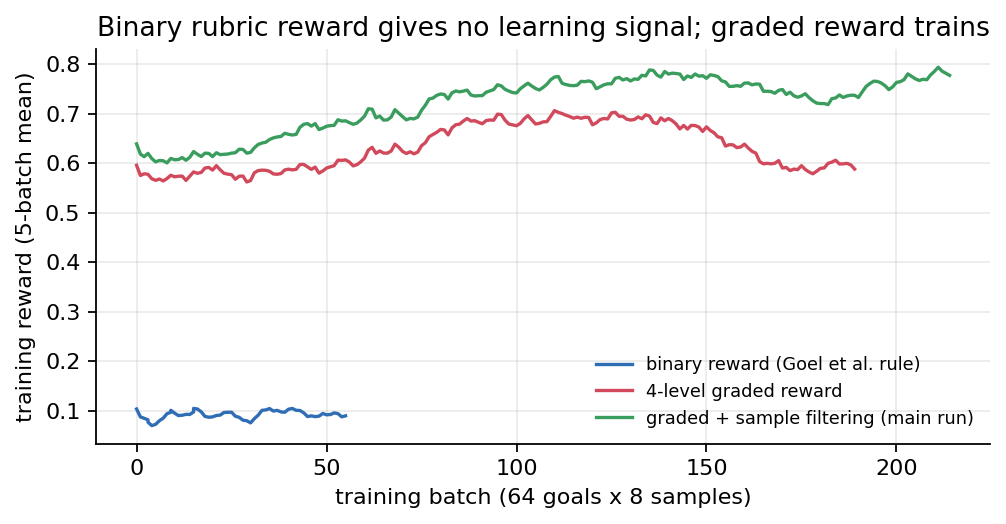
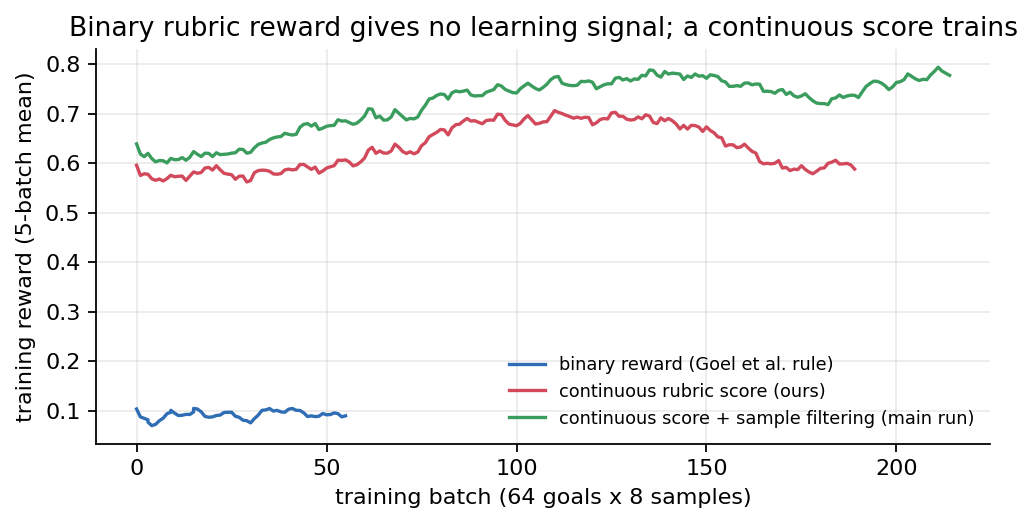
grpo: add evidence that the policy learned format and patterns, not depth
The CV finding is that the rubric reward was easy to hack and too coarse, so
the policy mainly learned format and pattern preferences. Back it with data:

- data/rubric_audit.csv: blind Claude Opus depth audit (/20) of 13 plans from
  the trained checkpoint's held-out eval, numeric fields only (source: the
  archived d1_rubric_validation audit). Opus 6-11/20 across all plans;
  within one goal r=0.58 (n=8), across goals r=-0.17; the top-rubric plan
  (0.949) scores 7/20.
- length/format trend from batch summaries: format penalty 0.048 -> 0.002,
  length 406 -> 579 words toward the 600-word bonus centre. The eval gain
  holds in all 5 length bins, so it is not a length artefact.
- New figures length_format.png and rubric_vs_opus.png; 44 number checks.
- README: 'continuous rubric score' wording, reproduction framed against the
  paper's 12-22% (different evaluator), data card merged in.

diff --git a/grpo/analysis/check_numbers.py b/grpo/analysis/check_numbers.py
@@ -31,6 +31,7 @@ c.check("eval: base model (all 5120 samples)", base, 0.5601)
 c.check("eval: base model valid share %", 100 * n_valid / n_gen, 76.2, 0.05)
 trained, n_gen, n_valid = eval_mean_all(E / "grpo_main.eval_b214_summary.csv")
 c.check("eval: GRPO b214 (all 5120 samples)", trained, 0.6926)
+c.check("eval: relative gain over base %", 100 * (trained / base - 1), 23.7, 0.05)
 c.check("eval: GRPO b214 valid share %", 100 * n_valid / n_gen, 100.0, 0.05)
 for name, tag, val in [("arxiv", "grpo_arxiv.eval_b101", 0.6889), ("pubmed", "grpo_pubmed.eval_b99", 0.8263)]:
     c.check(f"eval: GRPO {name} split (trained)", eval_mean_all(E / f"{tag}_summary.csv")[0], val)
@@ -47,4 +48,40 @@ rc = [spearmanr(d.grader_rubric_score, d.self_eval_score).correlation for _, d i
 c.check("self-eval vs grader rank corr (mean over goals)", float(np.nanmean(rc)), 0.0634)
 share = (0.8494 - 0.6811) / (0.8665 - 0.6811)
 c.check("share of mean->reference gap below oracle BoN-8 %", 100 * share, 90.8, 0.05)
+
+# --- what else training changed: length shaping and output format -------------------------------
+s = pd.read_csv(D / "train_metrics/grpo_main.batch_summary.csv")
+c.check("main: mean plan length, first 10 batches (words)", s.length_mean.head(10).mean(), 405.6, 0.05)
+c.check("main: mean plan length, last 10 batches (words)", s.length_mean.tail(10).mean(), 578.8, 0.05)
+c.check("main: peak of 5-batch mean length (words)", s.length_mean.rolling(5, min_periods=1).mean().max(), 740, 5)
+c.check("main: mean format penalty, first 10 batches", s.format_rate.head(10).mean(), 0.0479)
+c.check("main: mean format penalty, last 10 batches", s.format_rate.tail(10).mean(), 0.0024)
+for tag, val in [("grpo_main.base_m1", 0.5666), ("grpo_main.eval_b214", 0.6926)]:
+    e = pd.read_parquet(E / f"{tag}.parquet")
+    c.check(f"eval: {tag} valid-only mean", e.rubric_score.mean(), val)
+eb, et = pd.read_parquet(E / "grpo_main.base_m1.parquet"), pd.read_parquet(E / "grpo_main.eval_b214.parquet")
+bins = [0, 400, 500, 600, 700, 10_000]
+gb = eb.groupby(pd.cut(eb.word_count, bins), observed=True).rubric_score.agg(["mean", "size"])
+gt = et.groupby(pd.cut(et.word_count, bins), observed=True).rubric_score.agg(["mean", "size"])
+# the eval gain holds inside every length bin, so it is not explained by the length change
+j = gb.join(gt, lsuffix="_b", rsuffix="_t")
+c.check("eval: length bins with a gain (of 5)", float((j.mean_t > j.mean_b).sum()), 5, 0)
+c.check("eval: smallest within-bin gain (trained - base)", float((j.mean_t - j.mean_b).min()), 0.084, 5e-4)
+
+# --- rubric score vs independent Opus depth audit -----------------------------------------------
+a = pd.read_csv(D / "rubric_audit.csv")
+sg, mg = a[a.audit_set == "same_goal"], a[a.audit_set == "mixed_goals"]
+c.check("audit: same goal, n", float(len(sg)), 8, 0)
+c.check("audit: same goal, Pearson(rubric, Opus)", sg.rubric_score.corr(sg.opus_total), 0.577)
+c.check("audit: same goal, Spearman(rubric, Opus)", spearmanr(sg.rubric_score, sg.opus_total).correlation, 0.479)
+c.check("audit: same goal, rubric min", sg.rubric_score.min(), 0.04)
+c.check("audit: same goal, rubric max", sg.rubric_score.max(), 0.98, 0.005)
+c.check("audit: same goal, Opus min", sg.opus_total.min(), 7, 0)
+c.check("audit: same goal, Opus max", sg.opus_total.max(), 11, 0)
+c.check("audit: mixed goals, Pearson(rubric, Opus)", mg.rubric_score.corr(mg.opus_total), -0.167)
+top = mg.loc[mg.rubric_score.idxmax()]
+c.check("audit: mixed goals, top rubric score", top.rubric_score, 0.9486)
+c.check("audit: mixed goals, Opus score of that plan", top.opus_total, 7, 0)
+c.check("audit: Opus min over all 13 plans", a.opus_total.min(), 6, 0)
+c.check("audit: Opus max over all 13 plans", a.opus_total.max(), 11, 0)
 c.report()

diff --git a/grpo/analysis/make_figures.py b/grpo/analysis/make_figures.py
@@ -13,12 +13,12 @@ style()
 # 1. training reward: binary vs graded
 fig, ax = plt.subplots(figsize=(6.4, 3.4))
 for name, label in [("binary_reward", "binary reward (Goel et al. rule)"),
-                    ("graded_reward", "4-level graded reward"),
-                    ("grpo_main", "graded + sample filtering (main run)")]:
+                    ("graded_reward", "continuous rubric score (ours)"),
+                    ("grpo_main", "continuous score + sample filtering (main run)")]:
     m = pd.read_csv(D / f"train_metrics/{name}.csv")
     ax.plot(m["progress/batch"], m["reward/total"].rolling(5, min_periods=1).mean(), label=label)
 ax.set(xlabel="training batch (64 goals x 8 samples)", ylabel="training reward (5-batch mean)",
-       title="Binary rubric reward gives no learning signal; graded reward trains")
+       title="Binary rubric reward gives no learning signal; a continuous score trains")
 ax.legend(frameon=False, fontsize=8)
 save(fig, F / "training_curves.png")
 
@@ -45,3 +45,27 @@ ax.axhline(rows[3][1], color="#6c757d", ls=":", label="reference plans")
 ax.set(xlabel="N samples per goal", ylabel="rubric score", title="The policy writes good plans but cannot pick them")
 ax.legend(frameon=False, fontsize=8)
 save(fig, F / "selection_gap.png")
+
+# 4. what training changed besides the rubric score: length moves to the shaped target, format errors vanish
+m = pd.read_csv(D / "train_metrics/grpo_main.batch_summary.csv")
+fig, ax = plt.subplots(figsize=(6.4, 3.2))
+ax.plot(m.batch_idx, m.length_mean.rolling(5, min_periods=1).mean(), label="mean plan length (words)")
+ax.axhline(600, color="#6c757d", ls=":", label="centre of the length bonus (600 words)")
+ax.set(xlabel="training batch", ylabel="words", title="The policy learns the length shaping and the output format")
+ax2 = ax.twinx()
+ax2.plot(m.batch_idx, m.format_rate.rolling(5, min_periods=1).mean(), color="#d1495b", label="mean format penalty")
+ax2.set_ylabel("format penalty", color="#d1495b"); ax2.grid(False); ax2.spines["right"].set_visible(True)
+h1, l1 = ax.get_legend_handles_labels(); h2, l2 = ax2.get_legend_handles_labels()
+ax.legend(h1 + h2, l1 + l2, frameon=False, fontsize=8, loc="upper right")
+save(fig, F / "length_format.png")
+
+# 5. rubric score vs an independent depth audit (Claude Opus, blind, /20)
+a = pd.read_csv(D / "rubric_audit.csv")
+fig, ax = plt.subplots(figsize=(5.6, 3.6))
+for aset, mk, label in [("same_goal", "o", "8 samples, one goal"), ("mixed_goals", "s", "5 samples, different goals")]:
+    s = a[a.audit_set == aset]
+    ax.scatter(s.rubric_score, s.opus_total, marker=mk, s=46, label=label, alpha=0.85)
+ax.set(xlabel="rubric score (training grader)", ylabel="Opus depth audit (/20)", xlim=(-0.03, 1.03), ylim=(4, 20),
+       title="High rubric scores do not mean deep plans")
+ax.legend(frameon=False, fontsize=8, loc="upper left")
+save(fig, F / "rubric_vs_opus.png")

diff --git a/grpo/README.md b/grpo/README.md
@@ -1,55 +1,102 @@
-# GRPO with an LLM-judge rubric reward
+# GRPO with a continuous rubric reward
 
-**Reproduces** Goel et al., *Training AI Co-Scientists Using Rubric Rewards* ([arXiv:2512.23707](https://arxiv.org/abs/2512.23707)) at 30B scale, using GRPO ([DeepSeekMath, arXiv:2402.03300](https://arxiv.org/abs/2402.03300)).
+This folder is the reproduction that every other method in the repo is compared against.
+
+It **reproduces** Goel et al., *Training AI Co-Scientists Using Rubric Rewards* ([arXiv:2512.23707](https://arxiv.org/abs/2512.23707)):
+- same task and dataset (ResearchPlanGen, `facebook/research-plan-gen`)
+- same model, Qwen3-30B-A3B
+- same training loop: GRPO ([DeepSeekMath, arXiv:2402.03300](https://arxiv.org/abs/2402.03300)), with a frozen copy of the policy as the grader
+
+The paper's code was not released, so everything here is implemented from the paper.
 
 ## Method
 1. For each research goal, the policy (Qwen3-30B-A3B + LoRA rank 64) samples **8 plans**.
-2. A frozen copy of the model grades each plan. It sees the goal, the goal-specific rubric items and a reference plan, and rates every item on 7 general desiderata, at 4 levels each, mapped to {0, 0.2, 0.6, 1.0}.
-3. The plan's reward is the mean rating, plus a small length bonus, minus a format penalty.
+2. A frozen copy of the model grades each plan against the goal-specific rubric and the reference plan.
+3. **Continuous rubric score.** Goel et al. count a rubric item as satisfied only if the plan has zero violations, which makes the reward binary.
+   - Here the grader instead rates every item on 7 general desiderata at 4 levels, mapped to {0, 0.2, 0.6, 1.0}.
+   - The plan's score is the mean of these ratings, a continuous value in [0, 1].
+   - The reward is this score, plus a small length bonus, minus a format penalty.
 4. The advantage is the reward minus the group mean (no value network). The update uses PPO-clip.
 
 | Step | Code |
 |---|---|
-| Grader XML → rubric score | [`train.py` L229 `compute_rubric_reward_from_xml`](train.py#L229) |
-| Reward = rubric + 0.08 · length bonus − format penalty | [`train.py` L639](train.py#L639) |
+| Grader XML → continuous rubric score | [`train.py` L229 `compute_rubric_reward_from_xml`](train.py#L229) |
+| Reward = rubric + 0.08 · length bonus − format penalty | [`train.py` L640](train.py#L640) |
 | Group-relative advantage `r − mean(group)` | [`train.py` L697](train.py#L697) |
 | PPO-clip loss (ε = 0.2, no KL) via Tinker | [`train.py` L804](train.py#L804) |
 | Best-of-N + rubric-blind self-selection eval | [`eval_bon.py` L104, L203](eval_bon.py#L203) |
 
 ## Run
 ```bash
-export TINKER_API_KEY=...                     # see ../README.md#setup
+export TINKER_API_KEY=...                     # see ../README.md#installation
 python -m grpo.train log_path=runs/grpo/main  # settings of the reported run: configs/grpo_main.json
 python -m grpo.eval_bon checkpoint_run_path=runs/grpo/main
 ```
+Fields missing from `configs/*.json` take the defaults of `Config` in [`train.py`](train.py).
 
 ## Results
-Evaluation uses 640 held-out goals × 8 samples and the same frozen grader for every row. Every number below is recomputed from [`data/`](data/) by [`analysis/check_numbers.py`](analysis/check_numbers.py).
+- The eval set is 640 held-out goals × 8 samples.
+- Every row is scored by the same frozen grader.
+- Every number below is recomputed from [`data/`](data/) by [`analysis/check_numbers.py`](analysis/check_numbers.py).
 
 | | Held-out rubric score |
 |---|---|
 | Base model | 0.560 |
-| **GRPO, 215 batches** | **0.693** |
+| **GRPO, 215 batches (reproduction)** | **0.693** (+23.7% relative) |
 | GPT-5.4 zero-shot (640 × 1) | 0.826 |
 | Reference plans (n = 685) | 0.867 |
 
+The paper reports 12–22% relative improvement, judged by a jury of frontier models. Here the gain is +23.7%, measured by the frozen self-grader, which is the paper's training signal. The two are measured by different evaluators, so they show a gain of similar size, not the same number.
+
 ![training curves](analysis/figures/training_curves.png)
 ![eval](analysis/figures/eval_comparison.png)
+![length and format](analysis/figures/length_format.png)
+![rubric vs Opus](analysis/figures/rubric_vs_opus.png)
 ![selection gap](analysis/figures/selection_gap.png)
 
 ## Takeaways
-1. **A binary rubric reward gives GRPO almost no signal.**
-   - Under Goel et al.'s rule (an item is satisfied only if it has zero violations), training reward stayed flat: 0.103 → 0.095 over 60 batches.
-   - 64.5% of samples scored exactly 0, and 28.7% of GRPO groups had zero reward variance, so they contribute no gradient.
-   - A 4-level graded scale restores the variance within groups, and training works.
-2. **GRPO raised the held-out score by +0.133** (0.560 → 0.693), but the score stays far below a frontier model at zero-shot (0.826).
-3. **The remaining gap is mostly selection, not capability.**
-   - Among its own 8 samples, the trained policy's best scores 0.849, against a mean of 0.681. That covers 90.8% of the gap from the mean to the reference plans.
-   - The policy cannot find that best sample itself: its own rubric-blind scores rank its samples at chance (Spearman 0.063), and self-selection reaches only 0.694.
-   - Goal-specific rubrics check the reference's *particular* method, which the model cannot infer.
+1. **The reproduction needs a continuous score.**
+   - Under Goel et al.'s binary rule, training reward stayed flat: 0.103 → 0.095 over 60 batches.
+   - 64.5% of samples scored exactly 0, and 28.7% of GRPO groups had zero reward variance, so those groups contribute no gradient.
+   - The continuous score restores variance within groups, and GRPO then raises the held-out score from 0.560 to 0.693.
+2. **The policy mainly learned format and patterns, not depth.**
+   - *Format.*
+     - The share of format-valid eval samples rose from 76.2% to 100%.
+     - The mean format penalty fell from 0.048 to 0.002.
+     - Plan length moved to the centre of the length bonus: 406 → 579 words, after overshooting to about 740.
+     - The rubric gain itself is not a length effect: it appears in all 5 length bins.
+   - *Patterns.*
+     - The goal-specific rubric checks whether a plan takes the reference's framing and solution, not how deep the plan is.
+     - A blind Claude Opus depth audit (math, novelty, realism, rigor; /20) of 13 plans from the trained checkpoint scored every plan 6–11 / 20.
+     - Within one goal, rubric scores spanned 0.04–0.98 while Opus scores spanned 7–11. The correlation was r = 0.58 (n = 8, not significant).
+     - Across goals the correlation was r = −0.17. The highest-rubric plan (0.949) scored 7 / 20: it invented a baseline and reported implausible throughput numbers.
+   - The reward is easy to satisfy with the right framing and too coarse to reward deep scientific content.
+3. **The remaining rubric gap is selection, not generation.**
+   - Among its own 8 samples, the policy's best scores 0.849, against a mean of 0.681. That covers 90.8% of the gap from the mean to the reference plans.
+   - The policy cannot find that best sample itself: its rubric-blind self-scores rank its samples at chance (Spearman 0.063), and self-selection reaches only 0.694.
+
+## Data
+Everything here is numeric; no plan, grader or critique text is included. Run names map to the original run ids in [`data/runs.csv`](data/runs.csv).
+
+| Path | Contents | Granularity |
+|---|---|---|
+| `data/train_metrics/<run>.csv` | training reward per batch. `.batch_summary.csv` adds advantage, length and format stats (`format_rate` = mean format penalty) | 1 row per batch |
+| `data/train_samples/<run>.parquet` | `batch_idx, group_idx, sample_idx, rubric_score, format_penalty, final_reward` | 1 row per valid training sample |
+| `data/eval/<run>.<tag>.parquet` | held-out eval per sample: `rubric_score`, `word_count`, `is_compliant`. Best-of-N files add `self_eval_score`, `is_oracle_pick`, `is_self_pick` | 1 row per valid eval sample |
+| `data/eval/<run>.<tag>_summary.csv` | per eval batch: `samples/generated`, `samples/valid`, `rubric/sample_mean_all` | 1 row per eval batch |
+| [`data/rubric_audit.csv`](data/rubric_audit.csv) | blind Opus depth audit: 4 sub-scores and total (/20) next to the rubric score | 1 row per audited plan |
+
+**Two eval averages.**
+- Headline scores average over **all generated samples**, including format-invalid ones (`rubric/sample_mean_all`, weighted by `samples/generated`).
+- The per-sample parquet files keep valid samples only, so their plain mean is the valid-only score (base 0.567 on 3,900 of 5,120).
+
+**Protocol.**
+- Generation runs at temperature 1.0.
+- The grader is frozen Qwen3-30B-A3B at temperature 0. It sees the goal-specific rubric and the reference plan.
 
 ## Limitations
-- One training run, one grader family.
-- The grader that produced the training reward also scores the eval. Reference plans are graded with themselves in the grader's context, which can inflate their score.
+- One training run and one grader family.
+- The grader that produced the training reward also scores the eval.
+- Reference plans are graded with themselves in the grader's context, which can inflate their score.
 - The maximum of 8 noisy scores is biased upward, so best-of-8 is an upper bound.
-- Headline means count format-invalid samples. The base model has 76.2% valid samples; [`data/README.md`](data/README.md) explains both averages.
+- The Opus audit covers 13 plans with one judgment each. It shows what the rubric misses; it does not measure that miss precisely.
